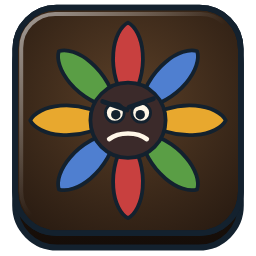
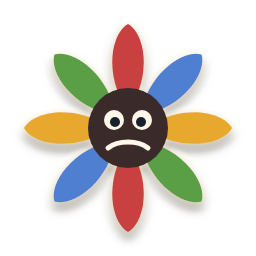
Ennemis : la créature seule, sans plaque ni contour sombre, avec halo crème et ombre douce
Claude-Session: https://claude.ai/code/session_013EccGmGcBAAqujeLGmWbCi

diff --git a/Design/Enemies/bare.py b/Design/Enemies/bare.py
@@ -1,0 +1,56 @@
+#!/usr/bin/env python3
+"""Bare enemy icons: the creature alone, with no plate, no dark outline and no block: the SVGs written by generate_enemies.py lose their rounded plate and the
+navy outline of their shapes (Icons/outline.py), and get a soft cream glow (so the dark ones still read on a dark panel) and a soft shadow under them.
+Renders 256 px PNGs with Playwright (NODE_PATH=$(npm root -g)) into Assets/Resources/Enemies/<Name>.png. Run from this folder, after generate_enemies.py."""
+import glob, os, re, subprocess, sys
+sys.path.insert(0, os.path.join(os.path.dirname(os.path.abspath(__file__)), '..', 'Icons'))
+from outline import strip_outline
+
+O = '#13212e'
+RES = '../../Assets/Resources/Enemies'
+OUT = 'bare'
+os.makedirs(OUT, exist_ok=True)
+
+PLATE = re.compile(r'\s*<rect[^>]*fill="url\(#plate\)"[^>]*/>')
+UNDERLAY = re.compile(r'<path d="([^"]+)" fill="none" stroke="%s" stroke-width="[^"]+"\s*/>\s*(?=<path d="\1")' % O)
+
+def bare(src):
+    inner = re.search(r'<svg[^>]*>(.*)</svg>', src, re.S).group(1)
+    inner = re.sub(r'<defs>.*?</defs>', lambda m: m.group(0) if ('Gradient' in m.group(0) and 'plate' not in m.group(0)) else re.sub(r'<(radial|linear)Gradient id="plate".*?</(radial|linear)Gradient>|<clipPath id="clip">.*?</clipPath>', '', m.group(0), flags=re.S), inner, flags=re.S)
+    inner = PLATE.sub('', inner)
+    inner = re.sub(r'\s*<rect x="8" y="8" width="240" height="240"[^>]*/>', '', inner)           # the plate's frame
+    inner = re.sub(r'<rect x="0" y="0" width="256" height="256"[^>]*/>', '', inner)               # a full-canvas tint (the enraged crow's red wash)
+    inner = inner.replace(' clip-path="url(#clip)"', '')
+    inner = UNDERLAY.sub('', inner)          # a thick dark copy of a line, drawn under the colored one: that was its outline
+    inner = strip_outline(inner)
+    return ('<svg xmlns="http://www.w3.org/2000/svg" viewBox="0 0 256 256" width="256" height="256"><defs>'
+            '<filter id="glow" x="-20%" y="-20%" width="140%" height="140%"><feDropShadow dx="0" dy="0" stdDeviation="3" flood-color="#fff1d0" flood-opacity="0.75"/></filter>'
+            '<filter id="shade" x="-20%" y="-20%" width="140%" height="150%"><feDropShadow dx="0" dy="6" stdDeviation="4" flood-color="#1a0f08" flood-opacity="0.5"/></filter>'
+            '</defs><g filter="url(#shade)"><g filter="url(#glow)">@@</g></g></svg>\n').replace('@@', inner)
+
+names = []
+for path in sorted(glob.glob('*.svg')):
+    name = os.path.splitext(path)[0]
+    if not os.path.exists('%s/%s.png' % (RES, name)):
+        continue
+    open('%s/%s.svg' % (OUT, name), 'w').write(bare(open(path).read()))
+    names.append(name)
+
+js = """
+const { chromium } = require('playwright');
+const fs = require('fs');
+(async () => {
+  const b = await chromium.launch();
+  const p = await b.newPage({ viewport: { width: 256, height: 256 }, deviceScaleFactor: 1 });
+  for (const name of %s) {
+    await p.setContent('<html><body style="margin:0;background:transparent">' + fs.readFileSync('%s/' + name + '.svg', 'utf8') + '</body></html>');
+    await p.screenshot({ path: '%s/' + name + '.png', omitBackground: true, clip: { x: 0, y: 0, width: 256, height: 256 } });
+  }
+  await b.close();
+})();
+""" % (names, OUT, RES)
+open('_render.js', 'w').write(js)
+env = dict(os.environ, NODE_PATH=subprocess.check_output(['npm', 'root', '-g']).decode().strip())
+subprocess.run(['node', '_render.js'], check=True, env=env)
+os.remove('_render.js')
+print('bare', len(names), 'enemies')

diff --git a/docs/DECISIONS.md b/docs/DECISIONS.md
@@ -9710,3 +9710,6 @@ Ceci couvre l'intégralité des retours de playtest de cette liste.
 
 ## 2026-11-14 — Plus de pastille « +15 % » sur les fertilizers
 - La pastille Roots (rectangle brun « +15 % » au coin des fertilizers du panneau) est retirée à la demande de l'auteur. L'information reste dans l'infobulle du fertilizer (ligne « With bonus ») et dans les liens entre voisins (sève, résonance), qui ont chacun leur infobulle. Son propre infobulle « Roots + N % » disparaît avec elle. Non vérifié dans Unity.
+
+## 2026-11-14 — Icônes des ennemis : la créature seule
+- Même traitement que les fertilizers : plus de plaque en bloc, de cadre ni de contour sombre. `Design/Enemies/bare.py` (remplace `add_depth.py` pour le rendu des PNG) retire la plaque, son cadre et la teinte plein cadre du corbeau enragé, supprime les contours bleu nuit des formes pleines (`Icons/outline.py`) et les gros traits sombres posés sous les traits colorés (leur contour), puis ajoute un halo crème doux (pour que les ennemis sombres — corbeau, souche, Locker — se lisent sur un fond foncé) et une ombre douce dessous. 17 PNG de `Assets/Resources/Enemies` regénérés (256 px), donc la bande des ennemis, la boutique et l'onglet Pests de la Collection changent. `add_depth.py` et le dossier `3d/` ne servent plus. Non vérifié dans Unity (le halo est à juger sur le fond réel).
